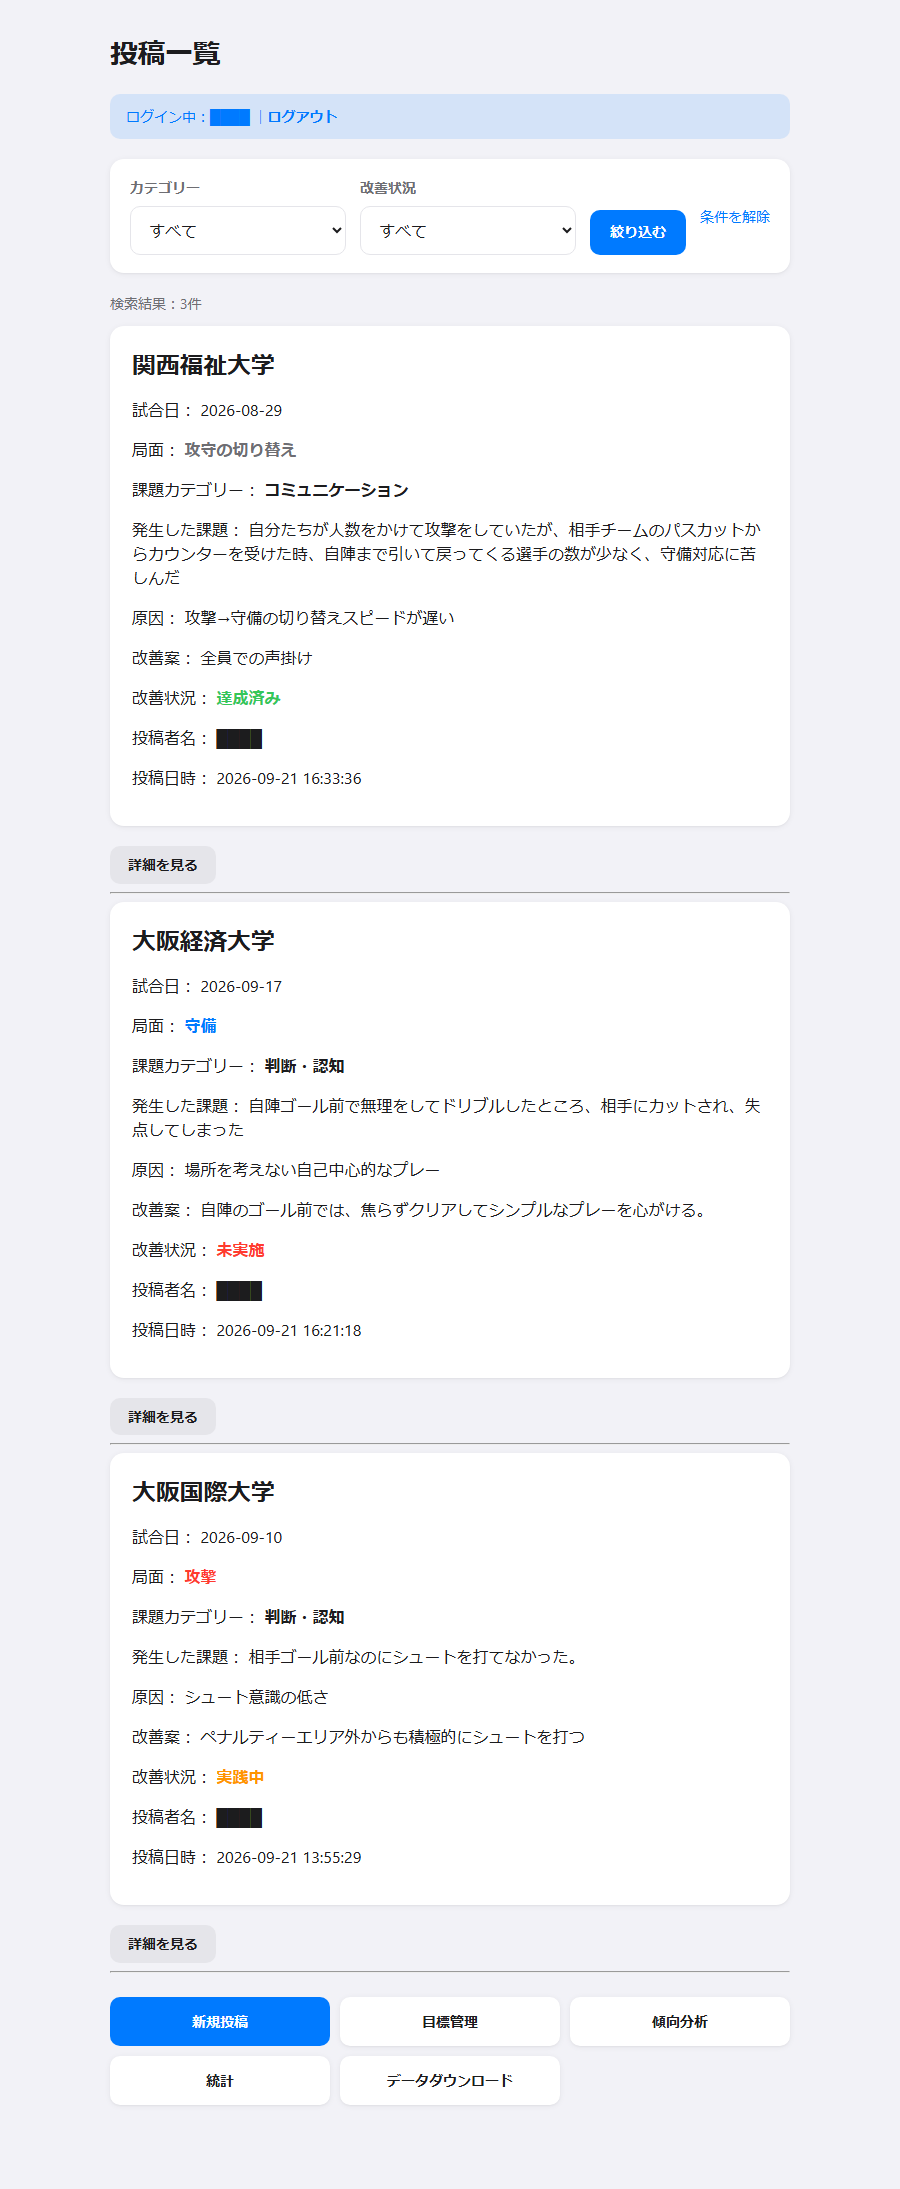
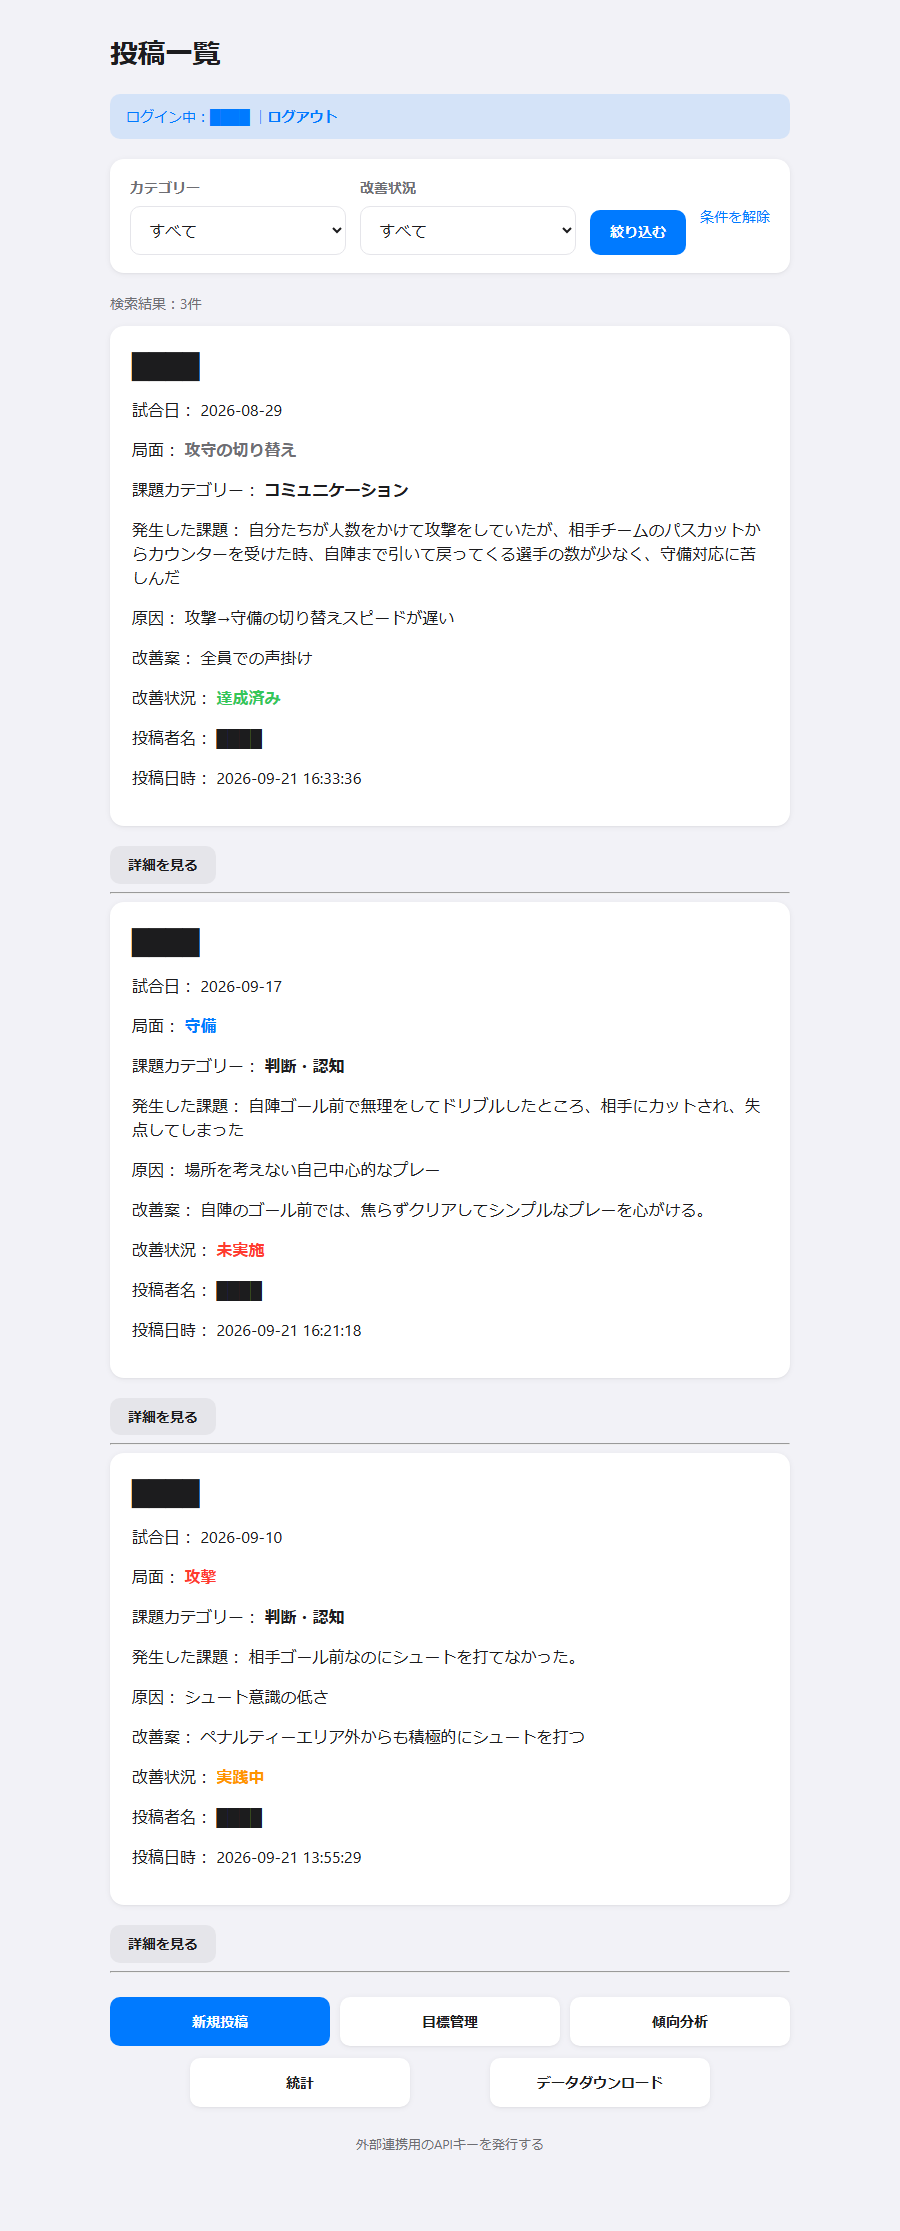
Move API spec to API.md, add API key link, mask screenshots
Split the external API spec out of README.md into a standalone API.md,
add a subtle link to api_settings.php from the post list, unify its
button/link styling with the rest of the app, and re-take screenshots
with university names masked alongside names.

diff --git a/style.css b/style.css
@@ -365,6 +365,16 @@ a:hover {
     }
 }
 
+.page-footnote {
+    text-align: center;
+    margin-top: 16px;
+}
+
+.page-footnote a {
+    font-size: 13px;
+    color: var(--color-label-secondary);
+}
+
 .search-form {
     display: flex;
     flex-wrap: wrap;

diff --git a/api_settings.php b/api_settings.php
@@ -54,10 +54,10 @@ $apiKey = $stmt->fetchColumn();
     <?php endif; ?>
 
     <form action="api_settings.php" method="post" onsubmit="return confirm('新しいAPIキーを発行すると、古いキーは使えなくなります。よろしいですか？');">
-        <button type="submit"><?= $apiKey ? "APIキーを再発行する" : "APIキーを発行する" ?></button>
+        <button type="submit" class="button-primary"><?= $apiKey ? "APIキーを再発行する" : "APIキーを発行する" ?></button>
     </form>
 
-    <a href="list.php">投稿一覧へ戻る</a>
+    <a href="list.php" class="button-secondary-link">投稿一覧へ戻る</a>
 </main>
 </body>
 </html>

diff --git a/list.php b/list.php
@@ -218,6 +218,10 @@ function statusClass(string $status): string
             <a href="statistics.php">統計</a>
             <a href="export_csv.php">データダウンロード</a>
         </div>
+
+        <p class="page-footnote">
+            <a href="api_settings.php">外部連携用のAPIキーを発行する</a>
+        </p>
     </div>
 </body>
 </html>

diff --git a/API.md b/API.md
@@ -1,0 +1,67 @@
+# ReflectLink API仕様
+
+外部システム(スマホアプリ等)からReflectLinkのデータを利用するためのJSON REST API。
+
+## 認証
+
+`api_settings.php` で発行したAPIキーを、リクエストヘッダーに付与する。
+
+```
+Authorization: Bearer <APIキー>
+```
+
+## エンドポイント
+
+### GET /api/posts.php
+
+投稿一覧を取得する。
+
+パラメータ：`limit`(任意、デフォルト20、最大100)
+
+レスポンス例：
+```json
+{
+  "posts": [
+    {
+      "id": 2,
+      "match_name": "経大戦",
+      "match_date": "2026-09-15",
+      "phase": "守備",
+      "category_name": "守備",
+      "status": "実践中",
+      "player_name": "山田花子",
+      "created_at": "2026-09-20 23:09:00"
+    }
+  ],
+  "count": 1
+}
+```
+
+### GET /api/posts.php?id={id}
+
+投稿1件の詳細(コメント含む)を取得する。
+
+### POST /api/comments.php
+
+投稿にコメントを追加する。
+
+リクエストボディ(JSON)：
+```json
+{
+  "post_id": 2,
+  "comment": "コメント本文"
+}
+```
+
+## エラー形式
+
+```json
+{ "error": "エラーメッセージ" }
+```
+
+| ステータス | 意味 |
+|---|---|
+| 400 | リクエスト形式が不正 |
+| 401 | APIキーが無効・未指定 |
+| 404 | 指定した投稿が存在しない |
+| 405 | 許可されていないHTTPメソッド |
